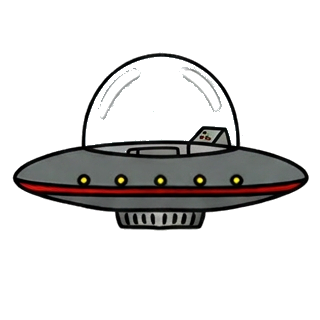
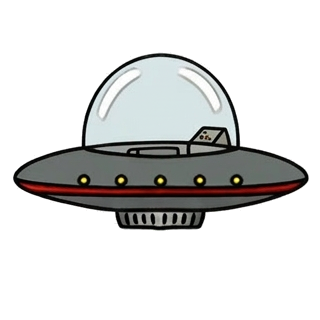
UFO pickup: the re-uploaded ufo-power.png had a white background again — flood-fill the exterior white to transparent (dome glass + highlights preserved this time, per request). v181

diff --git a/classic-offline.html b/classic-offline.html
@@ -24,8 +24,8 @@
     <script src="js/perf.js"></script>
     <script src="js/lib/phaser.min.js"></script>
     <!-- OFFLINE build: assets inlined as data-URIs so it runs straight from file:// (no server) -->
-    <script src="js/offline-assets.js?v=180"></script>
-    <script src="js/offline-shim.js?v=180"></script>
+    <script src="js/offline-assets.js?v=181"></script>
+    <script src="js/offline-shim.js?v=181"></script>
   </head>
   <body>
     <div id="gameParent"></div>
@@ -52,8 +52,8 @@
     </script>
     <input id="highscore" type="text" />
     <script src="js/fulltilt.min.js"></script>
-    <script src="js/classic-theme.js?v=180"></script>
-    <script src="js/classic.themed.js?v=180"></script>
-    <script src="js/doodle.js?v=180"></script>
+    <script src="js/classic-theme.js?v=181"></script>
+    <script src="js/classic.themed.js?v=181"></script>
+    <script src="js/doodle.js?v=181"></script>
   </body>
 </html>

diff --git a/index.html b/index.html
@@ -134,9 +134,9 @@
     <!-- Leaderboard API base, same-origin under /djapi (the server app is routed to djweb.../djapi). "" = local-only. -->
     <script>window.DJ_API_URL = "https://djapi.jeremiah.sg";</script>
     <script src="js/fulltilt.min.js"></script>
-    <script src="js/classic-theme.js?v=180"></script>
-    <script src="js/classic.themed.js?v=180"></script>
-    <script src="js/mp.js?v=180"></script>
-    <script src="js/doodle.js?v=180"></script>
+    <script src="js/classic-theme.js?v=181"></script>
+    <script src="js/classic.themed.js?v=181"></script>
+    <script src="js/mp.js?v=181"></script>
+    <script src="js/doodle.js?v=181"></script>
   </body>
 </html>

diff --git a/sw.js b/sw.js
@@ -1,7 +1,7 @@
 // Service worker: makes the online build an installable, offline-capable PWA.
 // NETWORK-FIRST for GET requests: when online you always get the latest (no stale-asset
 // problems after a deploy); falls back to cache only when offline. Bump CACHE on each release.
-var CACHE = "dj-v180";
+var CACHE = "dj-v181";
 
 self.addEventListener("install", function (e) { self.skipWaiting(); });
 